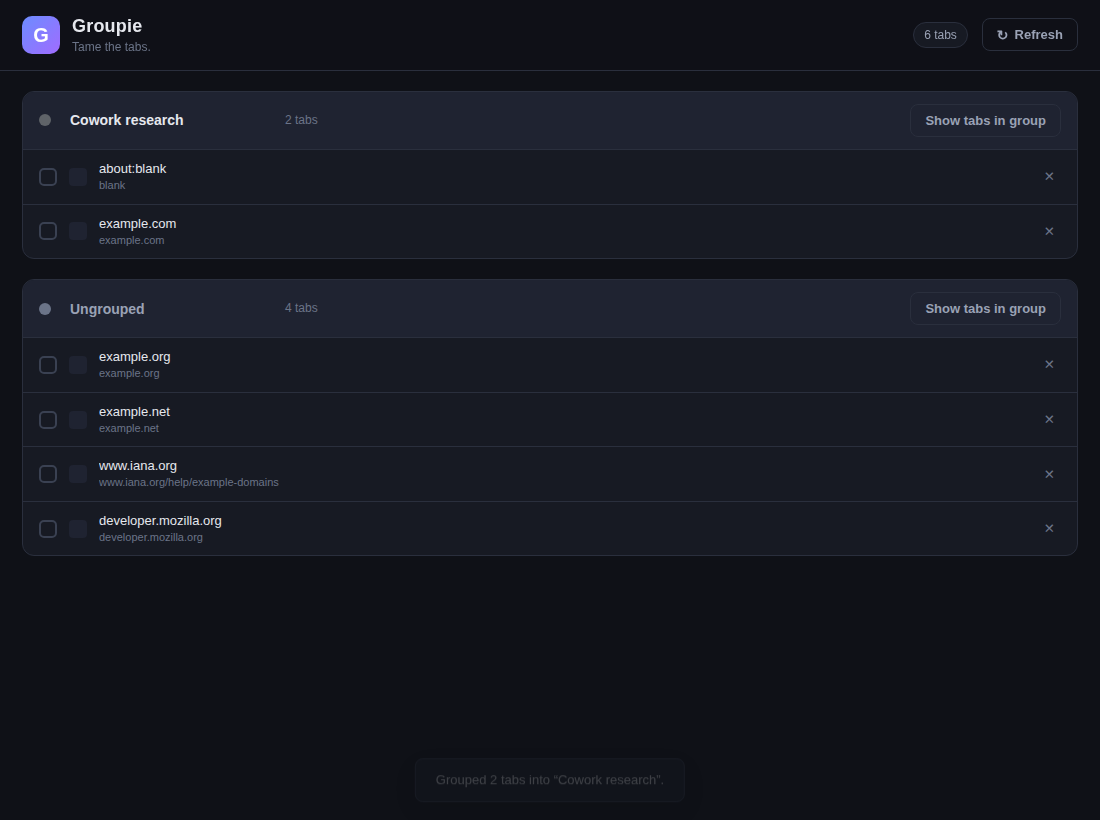
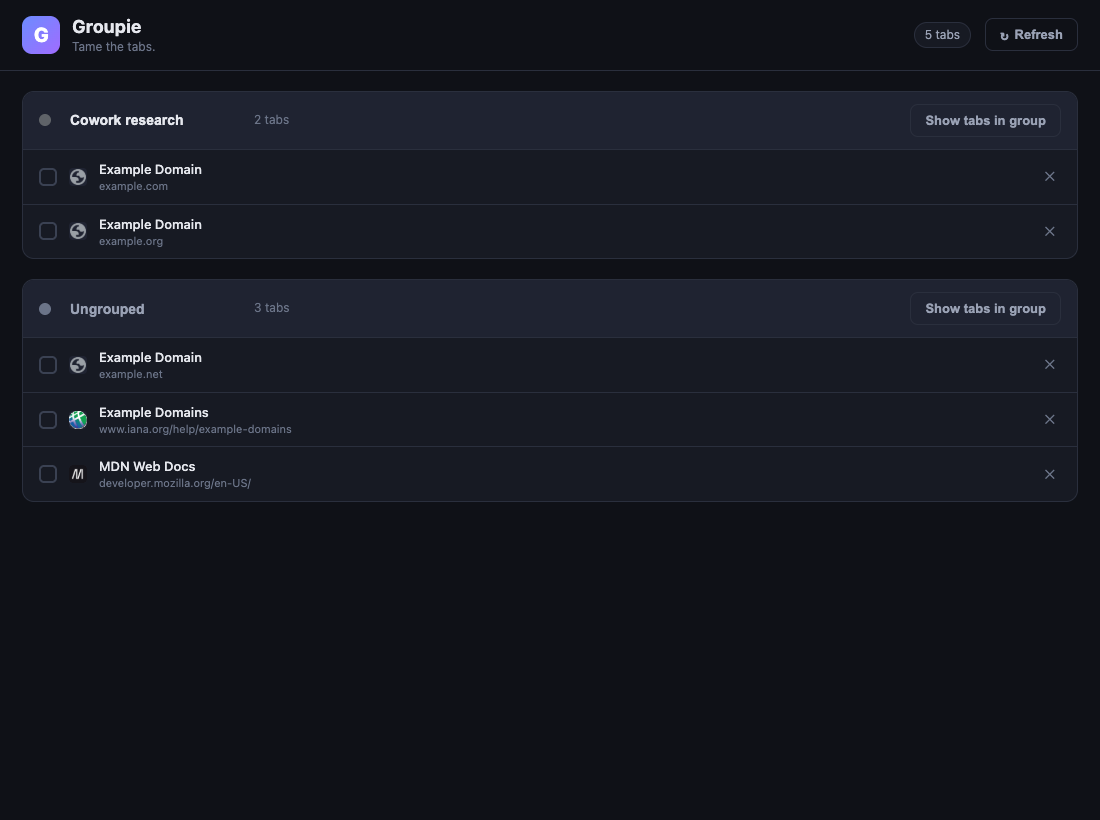
docs: update README for the Bun build workflow and refresh screenshots

diff --git a/README.md b/README.md
@@ -23,11 +23,18 @@ and jump into a grid view of any group.
 
 ## Install (load unpacked)
 
-Groupie is a plain Manifest V3 extension with no build step.
+Groupie is a Manifest V3 extension written in TypeScript and built with
+[Bun](https://bun.sh):
+
+```bash
+bun install
+bun run build
+```
 
 1. Open `chrome://extensions` in Chrome (or any Chromium browser).
 2. Turn on **Developer mode** (top-right).
-3. Click **Load unpacked** and select this repository's folder.
+3. Click **Load unpacked** and select this repository's `dist/` folder
+   (not the repository root).
 4. Pin the Groupie icon, then click it to open the tab manager.
 
 ## Usage
@@ -47,31 +54,37 @@ Groupie is a plain Manifest V3 extension with no build step.
 
 ## Project layout
 
-| File                                          | Purpose                                                      |
-| --------------------------------------------- | ------------------------------------------------------------ |
-| `manifest.json`                               | MV3 manifest (permissions: `tabs`, `tabGroups`).             |
-| `background.js`                               | Service worker; opens/focuses the manager tab on icon click. |
-| `manager.html` / `manager.css` / `manager.js` | The full-page manager UI.                                    |
-| `icons/`                                      | Toolbar/store icons (generated).                             |
-| `scripts/`                                    | Dev helpers (icon generation, tests).                        |
+| Path                           | Purpose                                                          |
+| ------------------------------ | ---------------------------------------------------------------- |
+| `manifest.json`                | MV3 manifest (permissions: `tabs`, `tabGroups`, `favicon`).      |
+| `src/background.ts`            | Service worker; opens/focuses the manager tab on icon click.     |
+| `src/manager/`                 | Manager page modules: state, actions, Chrome adapter, renderers. |
+| `manager.html` / `manager.css` | The manager page shell and styles.                               |
+| `icons/`                       | Toolbar/store icons (generated).                                 |
+| `scripts/`                     | Build, icon generation, e2e test, and screenshot helpers.        |
+| `tests/`                       | Unit tests (`bun test`), including fuzz cases via fast-check.    |
+| `dist/`                        | Build output; this is the folder Chrome loads.                   |
 
 ## Development
 
-Regenerate the icons:
+Everything runs through Bun scripts:
 
 ```bash
-python3 scripts/make_icons.py
+bun run build        # bundle src/ + copy static assets into dist/
+bun run watch        # rebuild on change
+bun run lint         # ESLint
+bun run typecheck    # tsc --noEmit
+bun test             # unit tests (with fast-check fuzzing)
+bun run test:e2e     # build, then drive the extension in Chromium via Playwright
+bun run screenshots  # regenerate the README screenshots
+bun run icons        # regenerate the PNG icons (python3)
 ```
 
-Run the end-to-end smoke test (loads the extension in Chromium and drives the
-core flows). Requires Playwright's Chromium:
+The e2e test needs Playwright's Chromium once:
 
 ```bash
-node scripts/verify_extension.mjs
+bunx playwright install chromium
 ```
 
-Regenerate the README screenshots:
-
-```bash
-node scripts/screenshot.mjs
-```
+CI (GitHub Actions) runs lint, format check, typecheck, unit tests, the build,
+and the e2e smoke test on every pull request.